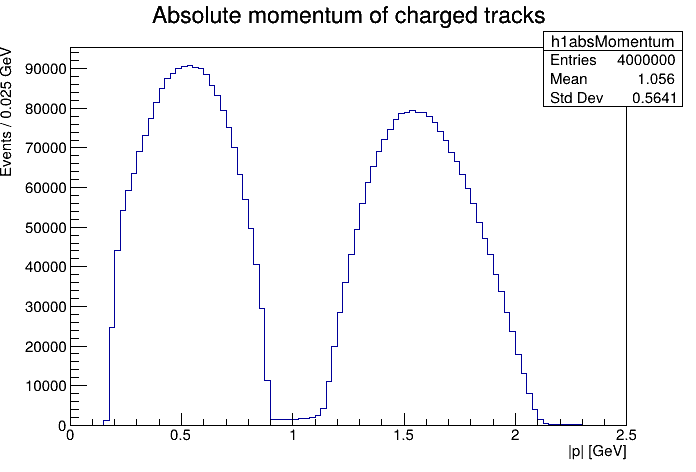
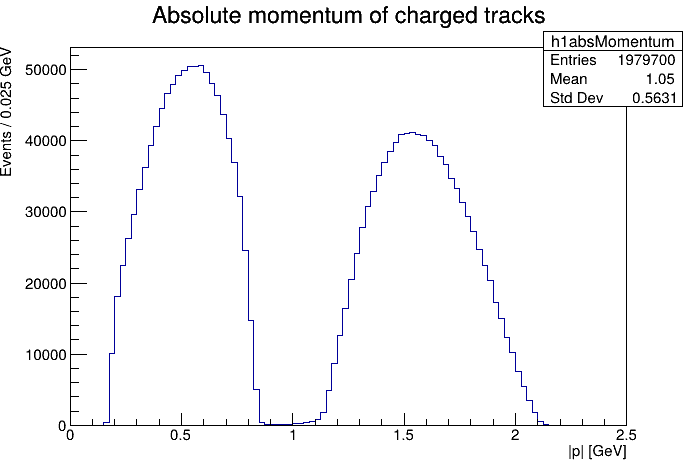
did task 3 and 3.1

diff --git a/part1_PID/ZcAnalysis.C b/part1_PID/ZcAnalysis.C
@@ -27,9 +27,10 @@ using ROOT::Math::VectorUtil::CosTheta; // angle between two four-vectors
 //=============================================================================
 
 // decide which graphs should be plotted
-bool task_2_1 = false;
-bool task_2_2 = false;
+bool task_2_1 = true;
+bool task_2_2 = true;
 bool task_2_3 = true;
+bool task_3 = true;
 
 void ZcAnalysis::Loop(TString savePath)
 {
@@ -44,12 +45,23 @@ void ZcAnalysis::Loop(TString savePath)
     // 2D parameters are: ("uniqueName", "title;x-axis-label;y-axis-label;z-axis-label", x-bins, x-min, x-max, y-bins, y-min, y-max)
     //=============================================================================
 
+    // TASK 2.1
     TH1D* h1_pTracks = nullptr;
+    // TASK 2.2
     TH1D* h2_eEMC = nullptr;
     TH2D* h3_eEMC_vs_MUC = nullptr;
+    // TASK 2.3
     TH1D* h4_eEMC_over_pMDC_e = nullptr;
     TH1D* h4_eEMC_over_pMDC_mu = nullptr;
     TH1D* h4_eEMC_over_pMDC_pi = nullptr;
+    // TASK 3
+    TH1D* h5_jpsi_mass_electron = nullptr;
+    TH1D* h6_jpsi_mass_muon = nullptr;
+
+    // PDG masses in GeV/c^2
+    const double electron_mass = 0.000510998946;
+    const double muon_mass = 0.1056583745;
+    const double pion_mass = 0.13957039;
 
     // TASK 2.1: Histogram for the absolute momentum of all charged tracks
     if (task_2_1) {
@@ -60,12 +72,12 @@ void ZcAnalysis::Loop(TString savePath)
     if (task_2_2) {
         h2_eEMC = new TH1D(
         "h2_eEMC",
-        "EMC energy of leptons;E_{EMC} [GeV];Events",
+        "E_{EMC} of leptons;E_{EMC} [GeV];Events",
         100, 0, 2.0
         );
         h3_eEMC_vs_MUC = new TH2D(
         "h3_eEMC_vs_MUC",
-        "E_{EMC} vs MUC depth;E_{EMC} [GeV];d_{MUC} [mm]",
+        "E_{EMC} vs d_{MUC};E_{EMC} [GeV];d_{MUC} [mm]",
         100, 0, 2.0,
         100, 0, 200
     );
@@ -75,18 +87,31 @@ void ZcAnalysis::Loop(TString savePath)
     if (task_2_3) {
         h4_eEMC_over_pMDC_e = new TH1D(
         "h4_eEMC_over_pMDC_e",
-        "eEMC/pMDC ratio;E_{EMC};Events",
+        "E_{EMC}/p_{MDC} ratio;E_{EMC}/p_{MDC};Events",
         100, 0, 2.0
         );
         h4_eEMC_over_pMDC_mu = new TH1D(
         "h4_eEMC_over_pMDC_mu",
-        "eEMC/pMDC ratio;E_{EMC};Events",
+        "E_{EMC}/p_{MDC} ratio;E_{EMC}/p_{MDC};Events",
         100, 0, 2.0
         );
         h4_eEMC_over_pMDC_pi = new TH1D(
         "h4_eEMC_over_pMDC_pi",
-        "eEMC/pMDC ratio;E_{EMC};Events",
+        "E_{EMC}/p_{MDC} ratio;E_{EMC}/p_{MDC};Events",
         100, 0, 2.0
+        );
+    }
+
+    if (task_3) {
+        h5_jpsi_mass_electron = new TH1D(
+            "h_jpsi_mass_electron",
+            "J/\\psi invariant mass (e^{+}e^{-});M_{J/\\psi} [GeV];Events",
+            150, 2.9, 3.2
+        );
+        h6_jpsi_mass_muon = new TH1D(
+            "h_jpsi_mass_muon",
+            "J/\\psi invariant mass (\\mu^{+}\\mu^{-});M_{J/\\psi} [GeV];Events",
+            150, 2.9, 3.2
         );
     }
 
@@ -107,6 +132,18 @@ void ZcAnalysis::Loop(TString savePath)
         //=============================================================================
         // Your selection for each event
         //=============================================================================
+
+        // Declare four-vectors for the six-particles
+        // pions
+        P4M pion_plus, pion_minus;
+        // leptons
+        P4M e_plus, e_minus;
+        P4M mu_plus, mu_minus;
+
+        // Skip events that don't have exactly 2 pions and 2 leptons of the same family
+        if (intNumberPions != 2) continue;
+        if (!((intNumberElectrons == 2 && intNumberMuons == 0) || 
+            (intNumberElectrons == 0 && intNumberMuons == 2))) continue;
 
         // Loop over all charged tracks in the event (there are always 4 charged tracks: l+ l- pi+ pi-)
         for (int i = 0; i < 4; i++)
@@ -157,6 +194,27 @@ void ZcAnalysis::Loop(TString savePath)
                     h4_eEMC_over_pMDC_pi->Fill(eEMC_over_p);
                 }
             }
+
+            // TASK 2.4
+            // Create four-vectors with measured momentum from MDC and PDG masses
+            pion_plus = P4M(dblTracksPx[2], dblTracksPy[2], dblTracksPz[2], pion_mass);
+            pion_minus = P4M(dblTracksPx[3], dblTracksPy[3], dblTracksPz[3], pion_mass);
+            e_plus = P4M(dblTracksPx[0], dblTracksPy[0], dblTracksPz[0], electron_mass);
+            e_minus = P4M(dblTracksPx[1], dblTracksPy[1], dblTracksPz[1], electron_mass);
+            mu_plus = P4M(dblTracksPx[0], dblTracksPy[0], dblTracksPz[0], muon_mass);
+            mu_minus = P4M(dblTracksPx[1], dblTracksPy[1], dblTracksPz[1], muon_mass);
+
+            // TASK 3
+            // Create J/Psi four-vectors by adding lepton pairs
+            if (intNumberElectrons == 2 && intNumberMuons == 0) {
+                P4M jpsi_electron = e_plus + e_minus;
+                h5_jpsi_mass_electron->Fill(jpsi_electron.M());
+            }
+            else if (intNumberElectrons == 0 && intNumberMuons == 2) {
+                P4M jpsi_muon = mu_plus + mu_minus;
+                h6_jpsi_mass_muon->Fill(jpsi_muon.M());
+            }
+
         }
 
         //=============================================================================
@@ -204,5 +262,47 @@ void ZcAnalysis::Loop(TString savePath)
         h4_eEMC_over_pMDC_pi->Draw("SAME");
 
         canvas->SaveAs(savePath + "4_EEMC_over_PMUC.png"); 
+    }
+
+    // TASK 3
+    if (task_3) {
+        // Plot J/Psi invariant mass for electrons
+        {
+            TCanvas* canvas = new TCanvas();
+            h5_jpsi_mass_electron->Draw();
+            canvas->SaveAs(savePath + "5_jpsi_mass_electron.png");
+        }
+
+        // Plot J/Psi invariant mass for muons
+        {
+            TCanvas* canvas = new TCanvas();
+
+            // double–Gaussian fit: parameters are
+            // [0] = scale 1, [1] = mean1,  [2] = sigma1  (narrow peak)
+            // [3] = scale 2, [4] = mean2,  [5] = sigma2  (broader component)
+            TF1 *f_fit = new TF1("f_fit",
+                "[0]*TMath::Gaus(x,[1],[2]) + [3]*TMath::Gaus(x,[4],[5])",
+                2.9, 3.2);
+
+            // set reasonable starting values: mass ≃3.097, narrow width few MeV,
+            // broader width maybe a few × larger
+            f_fit->SetParameters(1000, 3.097, 0.005,   200, 3.097, 0.020);
+
+            // optionally fix the second mean equal to the first if desired:
+            // f_fit->FixParameter(4,3.097);
+
+            h6_jpsi_mass_muon->Draw();
+
+            h6_jpsi_mass_muon->Fit(f_fit, "R");    // “R” keeps the fit inside [2.9,3.2]
+
+            canvas->SaveAs(savePath + "6_jpsi_mass_muon.png");
+
+            // read out the narrow Gaussian's parameters
+            double jpsi_mass  = f_fit->GetParameter(1); // mean of first (narrow) Gaussian
+            double jpsi_width = f_fit->GetParameter(2); // sigma of first Gaussian
+
+            printf("J/psi mass = %.6f GeV, width = %.6f GeV\n",
+                jpsi_mass, jpsi_width);
+        }
     }
 }
